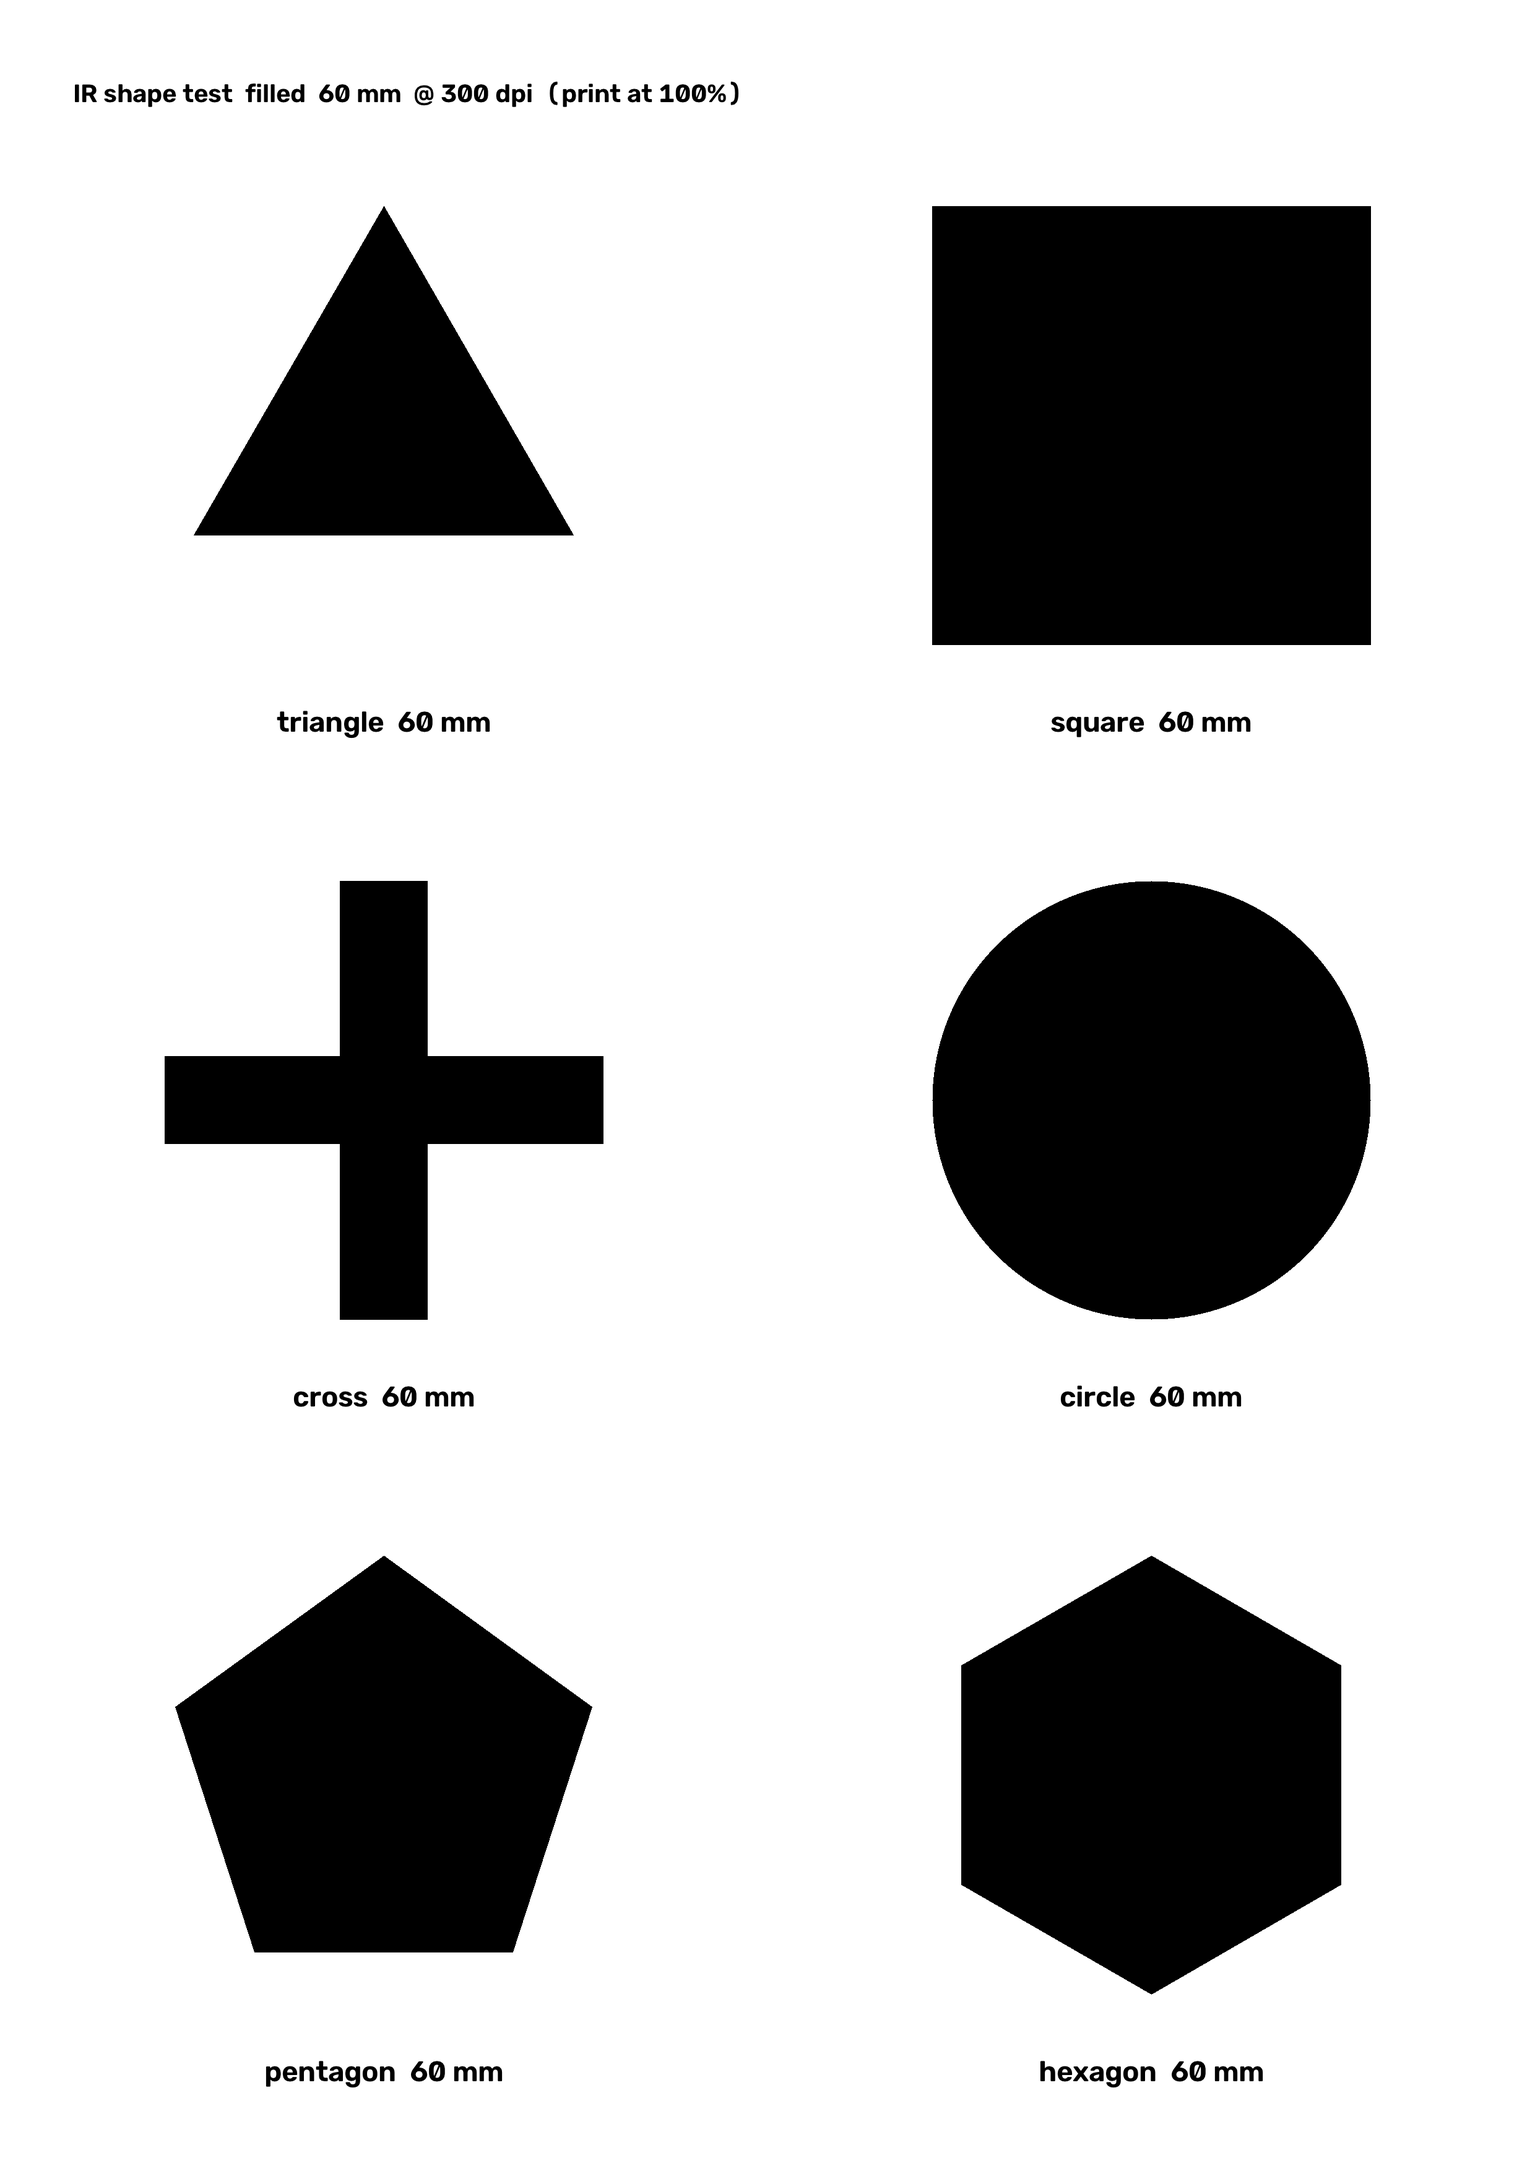
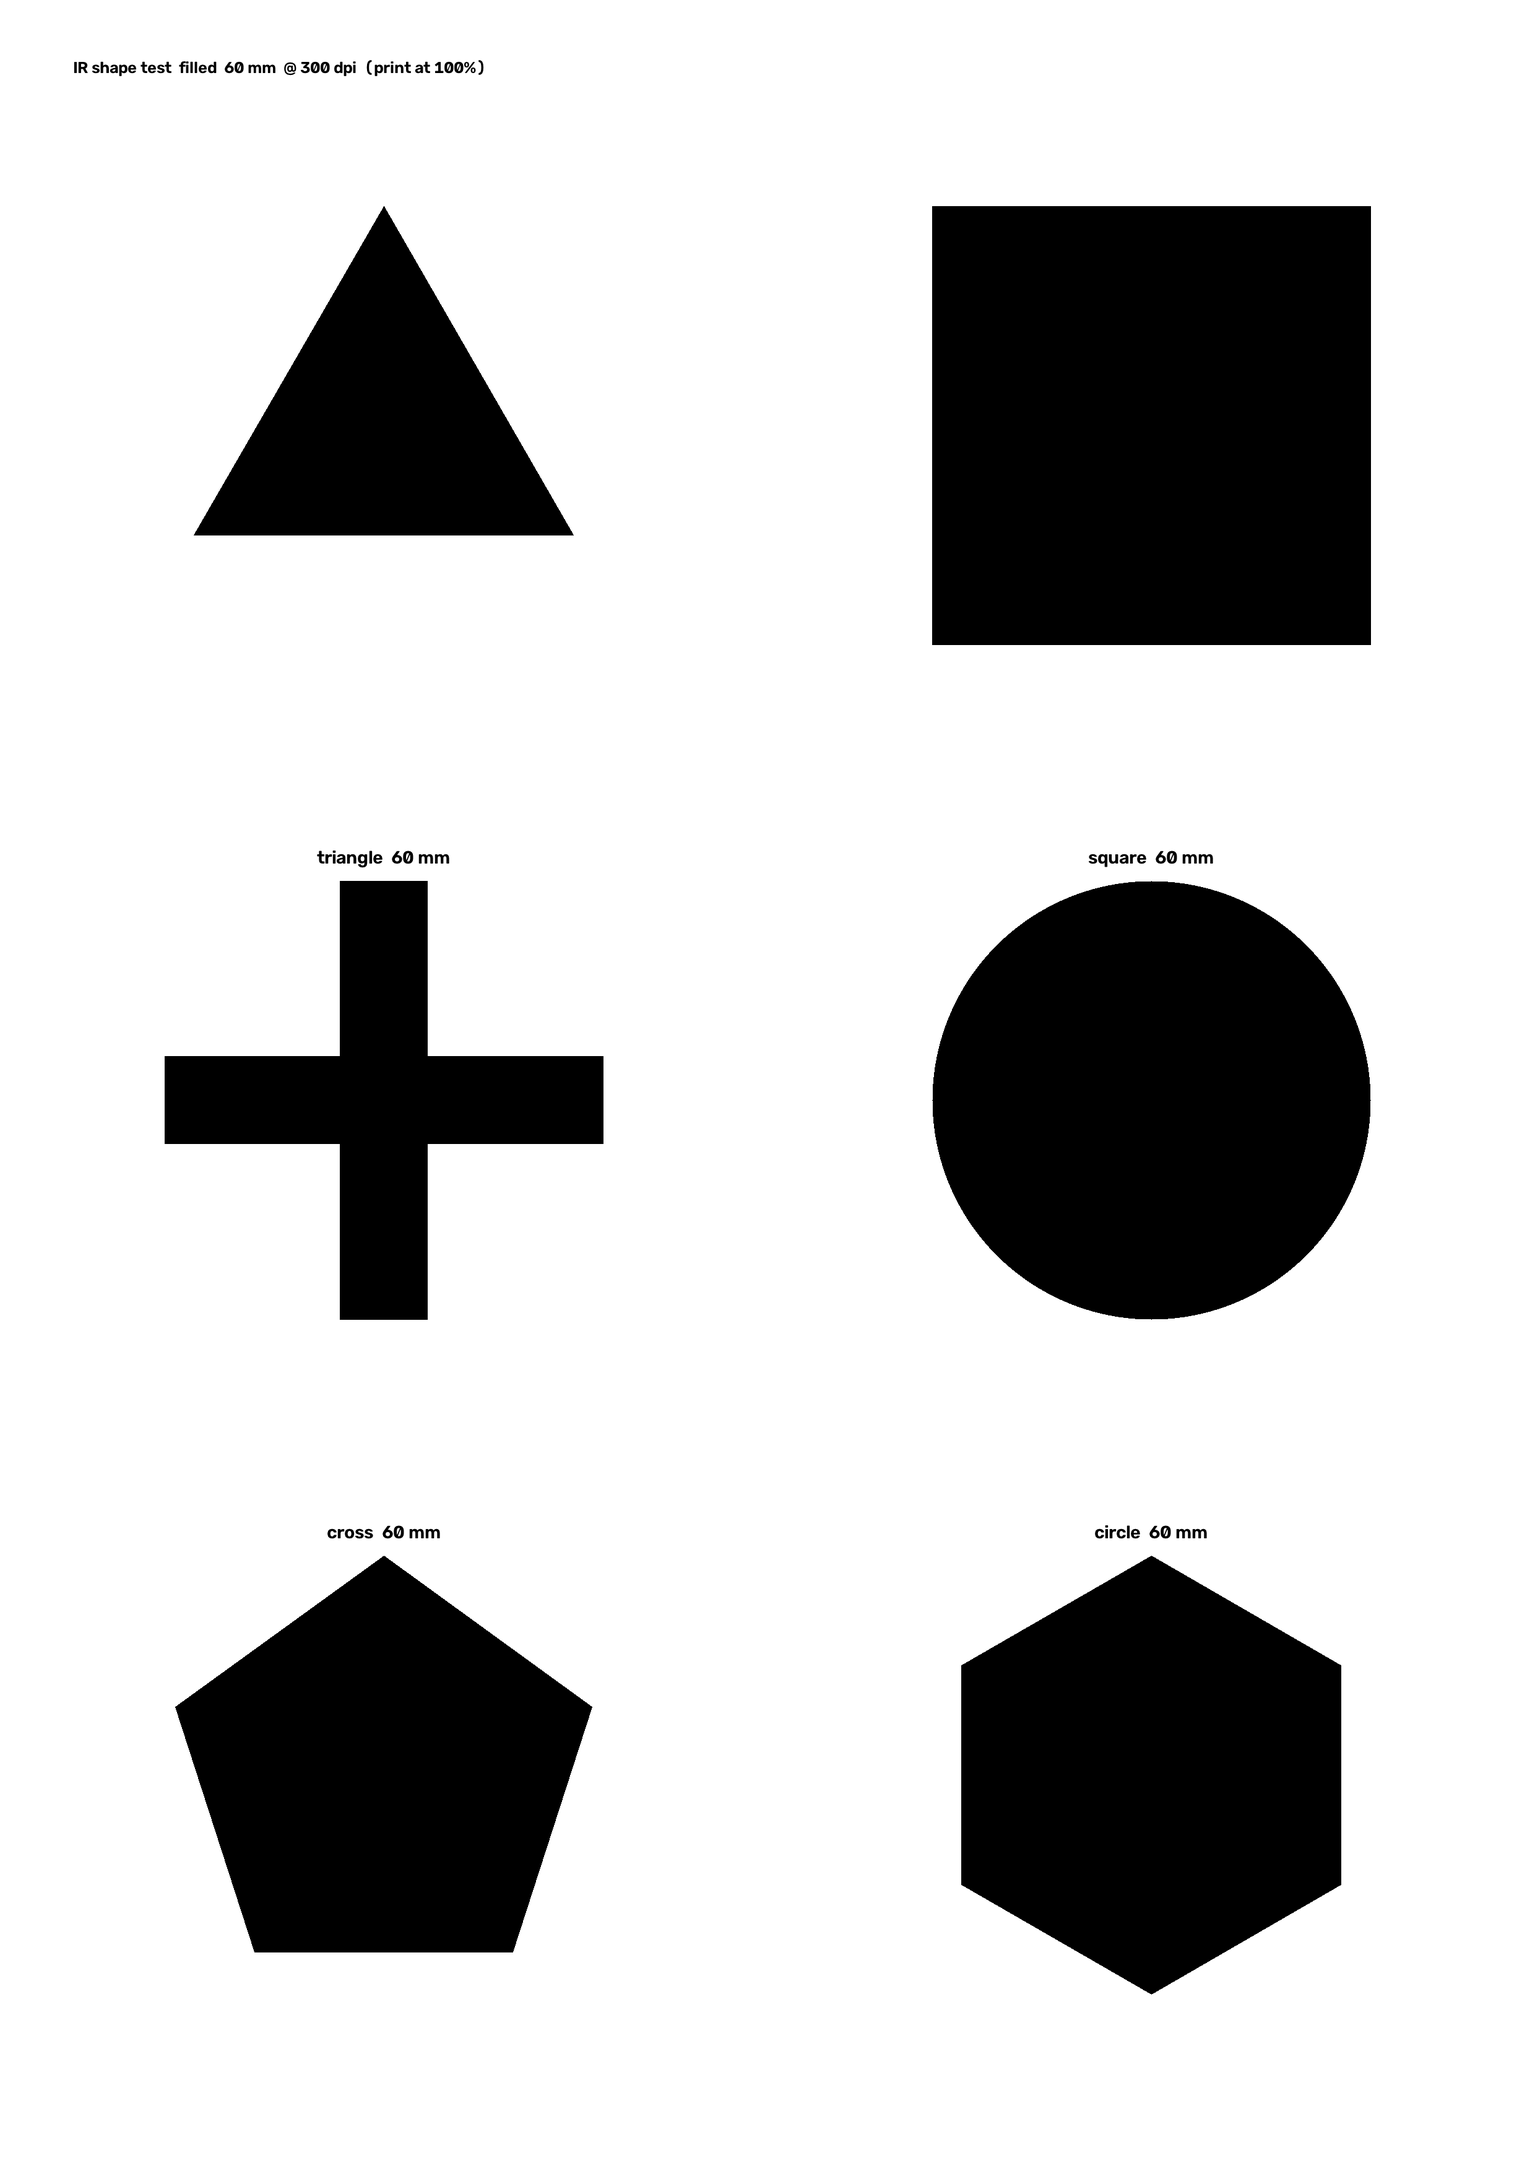
Recognise small shapes: coarse re-approximation, cross arm tips, detect width
At 10-25 px a shape's corners are blurred away: a triangle's apex is
clipped into a trapezoid (read as a wildly irregular rect) and a square
outline's corners round into extra vertices (read as a hexagon). classify
now retries with 2x and 3x the polygon epsilon when the first reading is
missing or irregular and keeps the interpretation with the lowest
deviation, guarded by area agreement (0.7-1.3x), solidity >= 0.85 for
convex shapes, and never for a cross (whose coarse reading is a diamond).

Cross regularity measures arm length from the centroid to each arm tip
instead of from the noisy inner corners, and ignores the one widest arm
end so a label or finger touching an arm does not disqualify it.

The viewer gets a Detect width row (640 / 1280 / full) and
--detect-width so DMK frames can be analysed at full 2448 px for small
shapes. The printed sheets put labels further from the shapes.

Measured minimum sizes (filled, regular only): circle 8 px, square 10,
cross 12, triangle 20, pentagon 30; outline shapes need ~20-25 px.

diff --git a/ir_detect/detect.py b/ir_detect/detect.py
@@ -186,11 +186,29 @@ def _convex_flags(poly: np.ndarray) -> np.ndarray:
 
 
 def classify(contour: np.ndarray, epsilon: float = 0.02) -> tuple[str, float, np.ndarray] | None:
-    """외곽선 → (이름, 정형 편차, 근사 다각형). 해당 없으면 None."""
+    """외곽선 → (이름, 정형 편차, 근사 다각형). 해당 없으면 None.
+
+    둘레 비율 epsilon 으로 꼭짓점을 잡는다. 작은 도형(20px 안팎)은 모서리가 뭉개져 꼭짓점이 남거나(사각형 → 육각형)
+    잘린다(삼각형 꼭대기 → 사다리꼴). 그래서 첫 해석이 없거나 편차가 15% 를 넘으면 2배·3배 epsilon 으로도 보고
+    편차가 가장 작은 해석을 고른다. 깨끗한 원이 거친 근사에서 육각형으로 둔갑하지 않게 좋은 해석은 그대로 둔다.
+    """
     peri = cv2.arcLength(contour, True)
     area = cv2.contourArea(contour)
     if peri <= 0 or area <= 0:
         return None
+    best = _classify_at(contour, epsilon, peri, area)
+    for k in (2, 3):
+        if best is not None and (best[1] <= 0.15 or best[0] == "cross"):
+            break  # 좋은 해석이거나 십자(비정형이어도 거친 근사로는 마름모가 될 뿐)면 그대로
+        r = _classify_at(contour, k * epsilon, peri, area)
+        # 거친 근사는 넓이가 원래 외곽선과 비슷할 때만 믿는다(0.7~1.3배): 십자를 팔 끝 4점으로 이으면 마름모(정사각형)가
+        # 되는데 넓이가 두 배라 걸러진다. 꼭짓점이 외곽선 위에 찍히므로 모서리가 둥근 도형의 내접 다각형은 20% 쯤 작다.
+        if r is not None and 0.7 <= cv2.contourArea(r[2].astype(np.float32)) / area <= 1.3 and (best is None or r[1] < best[1]):
+            best = r
+    return best
+
+
+def _classify_at(contour: np.ndarray, epsilon: float, peri: float, area: float) -> tuple[str, float, np.ndarray] | None:
     approx = cv2.approxPolyDP(contour, epsilon * peri, True).reshape(-1, 2).astype(np.float64)
     n = len(approx)
     # 꼭짓점 수는 epsilon 으로 정하되, 위치는 같은 수를 주는 가장 작은 epsilon 으로 다시 잡는다 (변 길이 오차 ↓)
@@ -203,6 +221,12 @@ def classify(contour: np.ndarray, epsilon: float = 0.02) -> tuple[str, float, np
             break
     convex = cv2.isContourConvex(approx.astype(np.float32))
     circularity = 4 * np.pi * area / (peri * peri)
+    if convex and 3 <= n <= 6:
+        # 볼록 다각형 도형은 외곽선 자체도 볼록해야 한다. 울퉁불퉁한 덩어리(얼굴, 손)가 거친 근사에서 사각형으로
+        # 둔갑하지 않게 solidity(넓이 / 볼록 껍질 넓이)로 거른다.
+        hull_area = cv2.contourArea(cv2.convexHull(contour))
+        if hull_area <= 0 or area / hull_area < 0.85:
+            return None
 
     if n == 3 and convex:
         return "triangle", _spread_q(_edge_lengths(approx)), approx
@@ -253,8 +277,14 @@ def _cross(approx: np.ndarray) -> tuple[str, float, np.ndarray] | None:
     _, (w, h), _ = cv2.minAreaRect(approx.astype(np.float32))
     aspect = abs(min(w, h) / max(w, h) - 1) if max(w, h) > 0 else 1.0
     # 팔 폭(끝변)은 ±1px 양자화 몫을 빼고 본다: 선을 팽창한 십자는 폭이 5px 안팎이라 1px 이 20% 다
-    width_dev = _spread_q(lengths[ends], 2.0)
-    return "cross", max(width_dev, _spread_q(lengths[~ends]), aspect), approx
+    # 가장 넓은 끝 하나는 뺀다: 팔 끝이 옆 글자나 손가락에 붙으면 그 끝만 넓어지는데 팔 길이·종횡비가 이미 십자를 보증한다
+    width_dev = _spread_q(np.sort(lengths[ends])[:3], 2.0)
+    # 팔 길이는 중심에서 팔 끝(끝변의 중점)까지로 잰다. 안쪽 오목 꼭짓점은 가는 획에서 위치가 몇 px 씩 흔들려
+    # 옆변 길이로 재면 20% 넘게 튀지만 팔 끝은 안정적이다.
+    centroid = approx.mean(axis=0)
+    tips = np.array([(approx[i] + approx[(i + 1) % n]) / 2 for i in range(n) if ends[i]])
+    arms = np.linalg.norm(tips - centroid, axis=1)
+    return "cross", max(width_dev, _spread_q(arms), aspect), approx
 
 
 REGULAR_TYPES = ("triangle", "square", "cross", "circle", "pentagon", "hexagon")  # regular_only 에서 허용

diff --git a/fov_viewer.py b/fov_viewer.py
@@ -118,6 +118,7 @@ class ViewFlags:
     shape_tol: float = 0.1  # 정형 허용 편차
     shape_min: int = 20  # 최소 크기 (원본 픽셀)
     shape_mode: str = "both"  # det.SHAPE_MODES: filled / outline / both
+    detect_width: int = 1280  # 검출용 축소 폭 (0 = 원본 그대로). DMK 2448px 에서 작은 도형은 full 로
 
     @property
     def tags(self) -> bool:
@@ -133,6 +134,8 @@ class ViewFlags:
 
 
 DETECT_OPTS = ["off", "apriltag", "shapes", "both"]
+DETECT_WIDTHS = ["640", "1280", "full"]  # 검출용 축소 폭
+DETECT_WIDTH_VALUES = (640, 1280, 0)
 
 
 # ---------------------------------------------------------------------------
@@ -214,6 +217,7 @@ def detect_rows(flags: ViewFlags) -> list[MenuRow]:
     g = "detect"
     return [
         MenuRow("detect", "Detect", DETECT_OPTS, DETECT_OPTS.index(flags.detect), g),
+        MenuRow("dwidth", "Detect width", DETECT_WIDTHS, _nearest(list(DETECT_WIDTH_VALUES), flags.detect_width), g),
         MenuRow("family", "Tag family", fams, fams.index(flags.family) if flags.family in fams else 0, g),
         MenuRow("invert", "Invert image", ["off", "on"], _onoff(flags.invert), g),
         MenuRow("stype", "Shape type", types, types.index(flags.shape_type) if flags.shape_type in types else 0, g),
@@ -228,6 +232,7 @@ def detect_flags(m: MenuState, flags: ViewFlags) -> ViewFlags:
     return replace(
         flags,
         detect=m.row("detect").value,
+        detect_width=DETECT_WIDTH_VALUES[m.get("dwidth")],
         family=m.row("family").value,
         invert=bool(m.get("invert")),
         shape_type=m.row("stype").value,
@@ -749,6 +754,7 @@ class OrbbecView:
             viz.draw_polygon(ir, c_in_i * si, viz.MAGENTA, 2)
             ir_lines.append("magenta: color FOV")
         if flags.detect != "off":
+            self.detp.max_width = flags.detect_width or 10**9
             self.det = self.detp.run(to_u8(last["ir"]), flags.tags, flags.shapes, flags.family, flags.invert, flags.shape_options)
             det.draw(ir, self.det, si)
             ir_lines.append(f"{flags.family if flags.tags else ''} {'inv' if flags.invert else ''} {self.det.summary()}")
@@ -883,6 +889,7 @@ class TisView:
         else:
             lines.append("no calibration: FOV overlay unavailable (calib/dmk_<serial>.json)")
         if flags.detect != "off":
+            self.detp.max_width = flags.detect_width or 10**9
             self.det = self.detp.run(f.image, flags.tags, flags.shapes, flags.family, flags.invert, flags.shape_options)
             det.draw(ir, self.det, s)
             lines.append(f"{flags.family if flags.tags else ''} {'inv' if flags.invert else ''} {self.det.summary()}")
@@ -918,6 +925,8 @@ def main() -> None:
     ap.add_argument("--detect", default="off", choices=DETECT_OPTS, help="시작 시 인식 모드")
     ap.add_argument("--family", default="tag36h11", choices=det.FAMILIES, help="AprilTag 계열")
     ap.add_argument("--invert", action="store_true", help="검출 전 영상 반전")
+    ap.add_argument("--detect-width", type=int, default=1280, choices=DETECT_WIDTH_VALUES,
+                    help="검출용 축소 폭 (0 = 원본). DMK 에서 작은 도형은 0")
     args = ap.parse_args()
 
     ires = parse_res(args.ir)
@@ -957,7 +966,7 @@ def main() -> None:
     canvas = None
     menu: MenuState | None = None
     distance = args.distance
-    flags = ViewFlags(detect=args.detect, family=args.family, invert=args.invert)
+    flags = ViewFlags(detect=args.detect, family=args.family, invert=args.invert, detect_width=args.detect_width)
     fps_t, fps_n, fps = time.time(), 0, 0.0
     toast, toast_until = "", 0.0
 

diff --git a/shape_sheet.py b/shape_sheet.py
@@ -67,9 +67,11 @@ def make_sheet(size_mm: float, stroke_mm: float, dpi: int, title: str) -> np.nda
         cy = int(20 * px) + cell_h * (i // cols) + cell_h // 2 - int(8 * px)
         draw_shape(img, name, (cx, cy), size_px, stroke)
         label = f"{name}  {size_mm:.0f} mm"
-        (tw, _), _ = cv2.getTextSize(label, cv2.FONT_HERSHEY_SIMPLEX, 1.6, 3)
-        cv2.putText(img, label, (cx - tw // 2, cy + size_px // 2 + int(12 * px)), cv2.FONT_HERSHEY_SIMPLEX, 1.6, 0, 3, cv2.LINE_AA)
-    cv2.putText(img, title, (int(10 * px), int(14 * px)), cv2.FONT_HERSHEY_SIMPLEX, 1.4, 0, 3, cv2.LINE_AA)
+        (tw, _), _ = cv2.getTextSize(label, cv2.FONT_HERSHEY_SIMPLEX, 1.0, 2)
+        # 라벨은 도형에서 도형 크기의 절반 이상 떨어뜨린다: 멀리서 작게 보일 때 글자가 도형에 붙으면 한 덩어리로 잡힌다
+        cv2.putText(img, label, (cx - tw // 2, cy + size_px // 2 + max(int(20 * px), size_px // 2)),
+                    cv2.FONT_HERSHEY_SIMPLEX, 1.0, 0, 2, cv2.LINE_AA)
+    cv2.putText(img, title, (int(10 * px), int(10 * px)), cv2.FONT_HERSHEY_SIMPLEX, 0.9, 0, 2, cv2.LINE_AA)
     return img
 
 

diff --git a/README.md b/README.md
@@ -158,6 +158,7 @@ Femto Bolt (FW 1.0.9) IR 모드: 320x288 / 640x576 (NFOV), 512x512 / 1024x1024 (
 | 항목 | 값 | 비고 |
 |---|---|---|
 | Detect | off / apriltag / shapes / both | 재시작 없이 즉시 적용 |
+| Detect width | 640 / 1280 / full | 검출용 축소 폭. DMK 2448px 에서 작은 도형을 보려면 full (outline 포함 약 90 ms) |
 | Tag family | tag36h11 / tag25h9 / tag16h5 / tag36h10 | 36h11 권장. 16h5 는 오검출이 많아 hamming 0, margin ≥ 10 으로 거른다 |
 | Invert image | off / on | 흰 테두리(inv) 태그, 어두운 바탕의 밝은 도형일 때 켠다 |
 | Shape type | all / triangle / square / cross / circle / rect / pentagon / hexagon | 찾을 도형 종류 |
@@ -173,6 +174,22 @@ Femto Bolt (FW 1.0.9) IR 모드: 320x288 / 640x576 (NFOV), 512x512 / 1024x1024 (
   - outline: 국소(adaptive) 이진화로 가는 선만 뽑아 닫힘·팽창으로 잇고, 닫힌 윤곽은 안쪽 구멍을, 구멍 없는 획(십자 두 줄)은 팽창된 바깥을
     분류한다. 획이 주변보다 어두운 후보만 받는다 (invert 면 밝은 쪽). 손으로 그린 도형, 또는 종이가 밝아 Otsu 임계값이 종이/배경 사이로
     잡혀 펜 선이 사라지는 장면용. 640x576 약 5 ms, 1280px 축소 영상 약 22 ms.
+  - 작은 도형: 모서리가 뭉개져 꼭짓점이 남거나(사각형 → 육각형) 잘리면(삼각형 꼭대기 → 사다리꼴) 2배·3배 거친 근사로 다시 보고
+    편차가 작은 해석을 고른다 (넓이가 0.7~1.3배로 맞고, 볼록 도형은 solidity ≥ 0.85 일 때만).
+  - 최소 크기 (어두운 방 + 인쇄 시트 합성, 실측 IR 노이즈, Regular only 10%, 5회 중 5회 성공 기준, 외접 사각형 한 변):
+
+    | 도형 | filled | outline |
+    |---|---|---|
+    | circle | 8 px | 20 px |
+    | square | 10 px | 20 px |
+    | cross | 12 px | 15 px |
+    | triangle | 20 px | 25 px |
+    | pentagon | 30 px | 30 px |
+    | hexagon | 40 px (작으면 원과 혼동) | 불안정 |
+
+    Femto Mega NFOV 640x576 은 2.7 m 에서 1 px ≈ 5.4 mm 다 (초점거리 ≈ 505 px). 즉 사각형 ≥ 55 mm, 십자 ≥ 65 mm,
+    삼각형 ≥ 110 mm, 오각형 ≥ 160 mm 가 하한이고 여유를 두려면 1.5배. DMK 2448x2048 은 같은 화각이면 픽셀이 3.8배 촘촘해
+    (렌즈 8 mm 기준 1 px ≈ 1.2 mm) 60 mm 시트가 50 px 로 보인다 — 단, Detect width 를 full 로 두어야 한다 (1280 이면 26 px).
   - 종이에 선으로 그린 도형은 640x576 에서 한 변 30px 이상(1 m 에서 약 7 cm)은 돼야 안정적으로 잡힌다. 작은 손그림 삼각형은 선이 끊기면 못 잡는다.
   - 정형 편차는 픽셀 양자화 몫(1px / 변 길이)을 빼고 센다. 20px 변은 1px 이 이미 5% 라 그만큼은 봐준다.
   - 뷰어는 도형을 프레임 간 추적한다: 라벨의 `[xx%]` 가 최근 30프레임 중 검출된 비율(검출률), 요약의 `hit xx%` 는 그 평균.

diff --git a/docs/SHORTCUTS.md b/docs/SHORTCUTS.md
@@ -46,6 +46,7 @@ IR 이 기본으로 켜져 있다. 장치·모드·스트림 설정은 전부 `e
 | D2C align | on / off | color + depth 가 켜져 있을 때만 의미 있음. 4K 에서 느리면 끈다. 즉시 적용 |
 | Auto distance | on / off | 화면 중앙 depth 의 중앙값을 거리로 사용 (depth 켜졌을 때). 즉시 적용 |
 | Detect | off / apriltag / shapes / both | IR 패널에 검출 결과 오버레이 + 요약. 즉시 적용, 장치를 바꿔도 유지 |
+| Detect width | 640 / 1280 / full | 검출용 축소 폭. DMK 에서 작은 도형은 full |
 | Tag family | tag36h11 / tag25h9 / tag16h5 / tag36h10 | |
 | Invert image | on / off | 흰 테두리(inv) 태그, 어두운 바탕의 밝은 도형 |
 | Shape type | all / triangle / square / cross / circle / rect / pentagon / hexagon | 찾을 도형 종류 |
